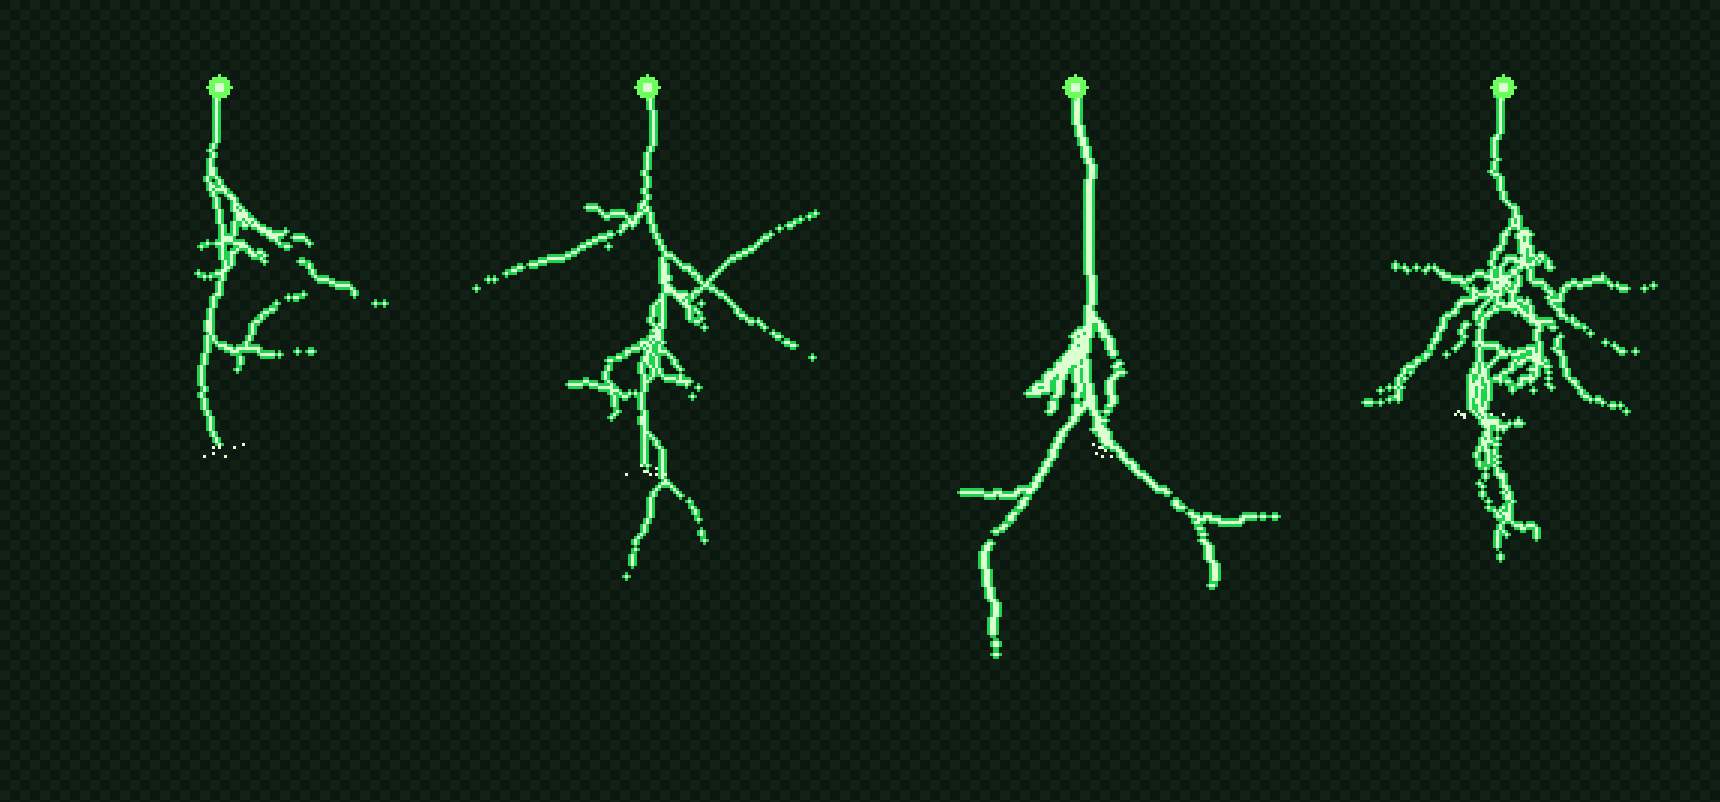
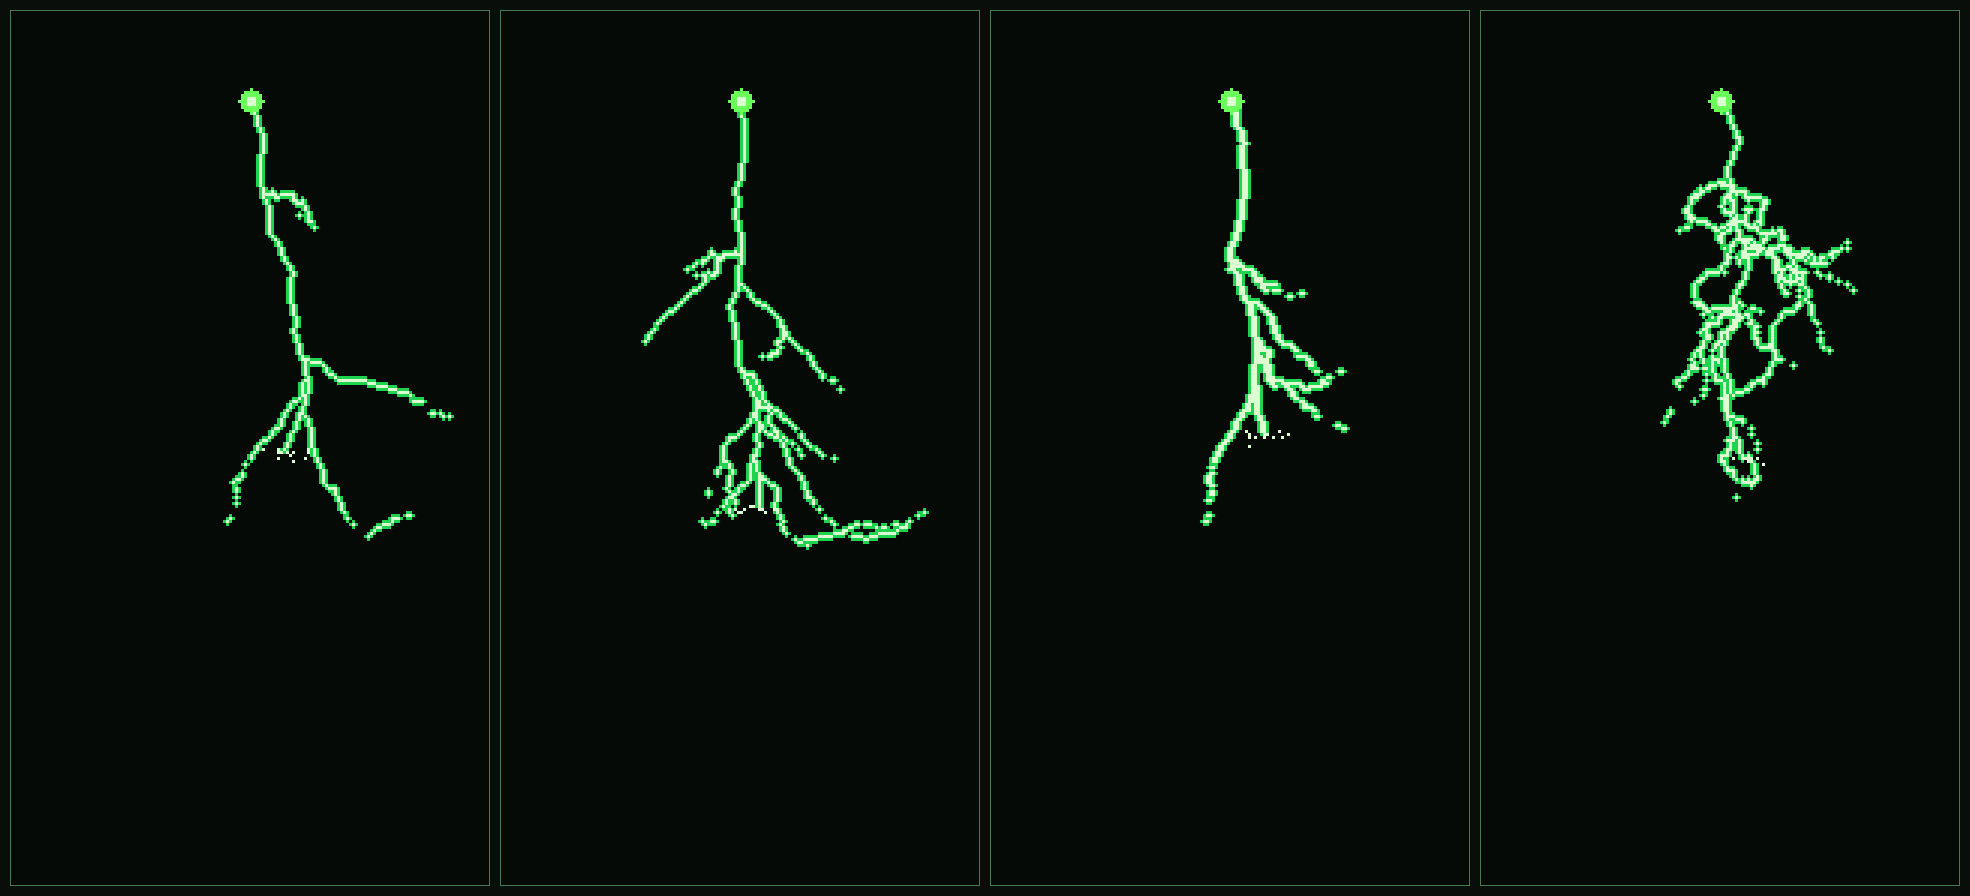
Green lightning: fix float-coord edge corruption + guaranteed empty border (no cutoff), visible canvas bounds

diff --git a/lightning-green.html b/lightning-green.html
@@ -15,8 +15,8 @@
   p.sub{text-align:center;margin:0 0 10px;color:#6f9a78}
   .row{display:flex;gap:16px;justify-content:center;align-items:flex-start;flex-wrap:wrap;padding:6px 16px 24px}
   .cell{display:flex;flex-direction:column;align-items:center;gap:6px}
-  canvas{ image-rendering:pixelated; image-rendering:crisp-edges; height:82vh; width:auto;
-    filter:drop-shadow(0 0 1px #0008); }
+  canvas{ image-rendering:pixelated; image-rendering:crisp-edges; height:74vh; width:auto;
+    background:rgba(140,255,170,.035); outline:1px solid rgba(159,255,176,.14); border-radius:3px; }
   .lab{color:#9fffb0;letter-spacing:1px}
   .lab b{color:#fff}
 </style>
@@ -32,7 +32,8 @@
    the bolt is alive. Double-length bolts. Transparent; unique every strike. */
 // big canvas with padding so nothing clips; SCALE keeps the BOLT's own size
 // fixed (independent of the canvas) so enlarging the canvas never stretches it.
-const GW=140, GH=262, OX=70, OY=26, UNIT=85, REFRESH=70, SCALE=56, LAND=142;
+// MARGIN = guaranteed empty border band — nothing can ever draw there.
+const GW=160, GH=292, OX=80, OY=30, UNIT=85, REFRESH=70, SCALE=56, LAND=150, MARGIN=7;
 const BOLT=[0x1F,0xD3,0x4E], BRIGHT=[0x6B,0xFF,0x5C], WHITE=[0xDC,0xFF,0xD2];
 
 const OPTS=[
@@ -69,7 +70,7 @@ function line(x0,y0,x1,y1,out){
 function raster(poly){ const out=[]; for(let i=0;i<poly.length-1;i++){ const a=poly[i],b=poly[i+1],seg=[];
   line(Math.round(a[0]),Math.round(a[1]),Math.round(b[0]),Math.round(b[1]),seg);
   for(const p of seg){ if(!out.length||out[out.length-1][0]!==p[0]||out[out.length-1][1]!==p[1]) out.push(p); } } return out; }
-const inb=p=>p[0]>=0&&p[0]<GW&&p[1]>=0&&p[1]<GH;
+const inb=p=>p[0]>=MARGIN&&p[0]<GW-MARGIN&&p[1]>=MARGIN&&p[1]<GH-MARGIN;
 
 // tendrils that fork (recursively) off a given polyline — regenerated each call
 function tendrils(spinePoly, opt){
@@ -83,7 +84,7 @@ function tendrils(spinePoly, opt){
     const a=fromPoly[vi], b=fromPoly[Math.min(fromPoly.length-1,vi+1)];
     const spread = lower ? 0.35 : 0.7;                    // lower tendrils flare out less (extend down)
     const ang=Math.atan2(b[1]-a[1],b[0]-a[0]) + (Math.random()<0.5?-1:1)*(0.35+Math.random()*spread);
-    const ln=blen*LAND*(0.30+Math.random()*0.85)*(lower?1.3:1.0);   // lots of length variety (capped to fit)
+    const ln=blen*LAND*(0.28+Math.random()*0.66)*(lower?1.25:1.0);   // varied lengths, capped to stay off the border
     const poly=displace(a,[a[0]+Math.cos(ang)*ln,a[1]+Math.sin(ang)*ln], d0, Math.max(3,detail-1));
     // TAPER: feather the outer part of each tendril so it thins to a point
     const raw=raster(poly);
@@ -115,7 +116,10 @@ function makeStrike(opt){
     for(let i=0;i<ns;i++){ const a=Math.random()*Math.PI, r=1+Math.random()*6; const p=[Math.round(ex+Math.cos(a)*r*1.3),Math.round(ey+Math.abs(Math.sin(a))*r*0.7)]; if(inb(p)) spray.push(p); }
     tend=tendrils(spinePoly,opt);
   }
-  function put(pts,c){ for(const [x,y] of pts){ if(x<0||y<0||x>=GW||y>=GH)continue; const i=(y*GW+x)*4; buf[i]=c[0];buf[i+1]=c[1];buf[i+2]=c[2];buf[i+3]=255; } }
+  // hard guard: never draw in the MARGIN band -> the canvas always keeps an
+  // empty border so the animation can never touch/clip the edge.
+  function put(pts,c){ for(const q of pts){ const x=q[0]|0, y=q[1]|0;   // floor to integer pixels (float coords corrupt the index)
+    if(x<MARGIN||y<MARGIN||x>=GW-MARGIN||y>=GH-MARGIN)continue; const i=(y*GW+x)*4; buf[i]=c[0];buf[i+1]=c[1];buf[i+2]=c[2];buf[i+3]=255; } }
   function core(r){ for(let y=-r;y<=r;y++)for(let x=-r;x<=r;x++){ const d=Math.hypot(x,y); if(d<=r) put([[OX+x,OY+y]], d<r*0.5?WHITE:BRIGHT); } }
   function compose(step){
     buf.fill(0);
